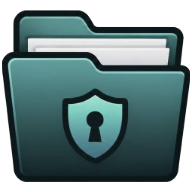
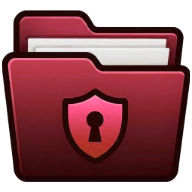
v1.167: closed cases in red (tag, folder, border); an X across a case closed with an arrest
- The closed status colour and the closed folder icon are red instead of green
- A closed case's box in the case list has a red border all round and a red lock in an open Mission
- A closed case with an arrest has an X across its box (case list and open Mission card)

Claude-Session: https://claude.ai/code/session_013Lh6qyaaezAfrBk9K1D6N1

diff --git a/tests/e2e/v1167.js b/tests/e2e/v1167.js
@@ -1,0 +1,47 @@
+// v1.167: a closed case is red, not green: the Closed tag, the closed folder icon and the border all
+// round its box in the case list, most of all inside a Mission that is still open. A case closed
+// with an arrest has an X across its box. All data is made up (Doe / Roe / Poe, Example City).
+const boot = require('./boot.js');
+const ok = (c, m) => console.log(c ? 'PASS' : 'FAIL', m);
+const SP = process.env.SP + '/v1167';
+const red = (rgb) => { const m = String(rgb).match(/\d+(\.\d+)?/g); if (!m) return false; const [r, g, b] = m.map(Number); return r > 140 && r > g * 1.6 && r > b * 1.6; };
+
+(async () => {
+  require('fs').mkdirSync(SP, { recursive: true });
+  const { b, p, errs, ids } = await boot(1400, 1000);
+  await p.evaluate(async (ids) => {
+    const op = Vault.listOperations()[0];
+    for (const i of [ids.c, ids.c2]) await Vault.assignCase(i, op.id).catch(() => {});
+    const c = await Vault.getCase(ids.c); c.status = 'Closed'; c.arrest = true; await Vault.saveCase(c);
+    const d = await Vault.createCase({ number: 'EX-940', subject: 'Ann Roe' }); await Vault.assignCase(d.id, op.id);
+    const dd = await Vault.getCase(d.id); dd.status = 'Closed'; await Vault.saveCase(dd);
+  }, ids);
+  await p.evaluate(() => { location.hash = '#/x'; location.hash = '#/'; }); await p.waitForTimeout(800);
+  await p.evaluate(() => document.querySelectorAll('#case-list details').forEach((d) => { d.open = true; }));
+  const look = await p.evaluate((ids) => {
+    const box = (i) => document.querySelector(`#case-list .mission-children a.case-item[href="#/case/${CVRoute.enc(i)}"], #case-list a.case-item.case-dim[href="#/case/${CVRoute.enc(i)}"]`);
+    const a = box(ids.c); const plain = [...document.querySelectorAll('#case-list a.case-item.case-dim')].find((x) => /EX-940/.test(x.textContent));
+    const cs = (e) => getComputedStyle(e);
+    return {
+      arrest: a && { cls: a.className, img: cs(a).backgroundImage, left: cs(a).borderLeftColor, shadow: cs(a).boxShadow, pill: cs(a.querySelector('.status-closed') || a).color, title: a.title },
+      plain: plain && { cls: plain.className, img: cs(plain).backgroundImage, left: cs(plain).borderLeftColor, shadow: cs(plain).boxShadow, lock: cs(plain.querySelector('.case-lock')).color },
+      closedIcon: (document.querySelector('#case-list .closed-icon image') || {}).getAttribute?.('href') || '',
+    };
+  }, ids);
+  ok(look.plain && /case-dim/.test(look.plain.cls) && red(look.plain.left) && /rgb\(\s*1[0-9]{2}, 38, 46\)|rgb\(163, 38, 46\)/.test(look.plain.shadow) && red(look.plain.lock), `closed in an open Mission: red border all round and a red lock ${JSON.stringify(look.plain)}`);
+  ok(look.plain && look.plain.img === 'none', 'no X without an arrest');
+  ok(look.arrest && /closed-arrest/.test(look.arrest.cls) && (look.arrest.img.match(/linear-gradient/g) || []).length === 2 && /X/.test(look.arrest.title), `closed with an arrest: an X across the box ${JSON.stringify(look.arrest && { cls: look.arrest.cls, title: look.arrest.title })}`);
+  ok(look.arrest && red(look.arrest.pill), `the Closed tag is red: ${look.arrest && look.arrest.pill}`);
+  ok(/folder-closed-shield/.test(look.closedIcon), `the closed folder icon: ${look.closedIcon}`);
+  const px = await p.evaluate(async () => {
+    const img = new Image(); img.src = 'icons/color/folder-closed-shield.png'; await img.decode();
+    const c = document.createElement('canvas'); c.width = img.width; c.height = img.height; const x = c.getContext('2d'); x.drawImage(img, 0, 0);
+    const d = x.getImageData(0, 0, c.width, c.height).data; let r = 0, g = 0, bl = 0;
+    for (let i = 0; i < d.length; i += 4) if (d[i + 3] > 200) { r += d[i]; g += d[i + 1]; bl += d[i + 2]; }
+    return [r, g, bl];
+  });
+  ok(px[0] > px[1] * 1.5 && px[0] > px[2] * 1.5, `the closed folder is red, not green: ${px}`);
+  await p.locator('#sidebar').screenshot({ path: `${SP}/sidebar.png` }).catch(() => {});
+  console.log('errors', JSON.stringify(errs));
+  await b.close();
+})();

diff --git a/js/app.js b/js/app.js
@@ -833,13 +833,13 @@
       opened ? `Opened ${opened.long} (${opened.future ? `${opened.ageLong.toLowerCase()}: a date in the future, check it` : opened.days ? `${opened.days} day${opened.days === 1 ? '' : 's'} ago` : 'today'})` : null,
       sol ? `Statute of limitations ${sol === 'expired' ? 'expired' : 'expires'} ${fmtDate(c.sol.expires)}` : null,
       due && !sol ? `${due.cls === 'overdue' || due.cls === 'soon' ? 'Alarm: ' : 'Next deadline: '}${c.nextDeadline.title || 'Deadline'}, ${fmtDate(c.nextDeadline.date)}${c.nextDeadline.time ? ` ${c.nextDeadline.time}` : ''} (${due.text})` : null,
-      c.arrested ? 'Arrest made: this case has Arrest details' : null,
+      c.arrested ? (c.status === 'Closed' ? 'Closed with an arrest (the X)' : 'Arrest made: this case has Arrest details') : null,
     ].filter(Boolean).join('\n');
     const li = h('li', {},
       h('a', {
         href: `#/case/${CVRoute.enc(c.id)}`,
         // v1.60: a case with a reminder (a deadline overdue or within a week) has a thin red border.
-        class: `case-item st-${String(c.status).toLowerCase()} ${c.id === state.caseId ? 'active' : ''}${due ? ` has-reminder reminder-${due.cls}` : ''}${c.arrested ? ' has-arrest' : ''}${dim ? ' case-dim' : ''}`,
+        class: `case-item st-${String(c.status).toLowerCase()} ${c.id === state.caseId ? 'active' : ''}${due ? ` has-reminder reminder-${due.cls}` : ''}${c.arrested ? ' has-arrest' : ''}${c.arrested && c.status === 'Closed' ? ' closed-arrest' : ''}${dim ? ' case-dim' : ''}`, // v1.167: closed with an arrest: an X across the box
         'aria-current': c.id === state.caseId ? 'page' : null,
         title: tip,
       },
@@ -2377,7 +2377,7 @@
   function overviewCard(c, withOp = false) {
     const to = (tab, sub) => `#/case/${CVRoute.enc(c.id)}/${tab}${sub ? `/${sub}` : ''}`;
     const op = withOp ? opOf(c) : null;
-    return h('div', { class: 'op-case-card' },
+    return h('div', { class: `op-case-card${c.arrested && c.status === 'Closed' ? ' closed-arrest' : ''}`, title: c.arrested && c.status === 'Closed' ? 'Closed with an arrest' : null },
       h('a', { class: 'op-case-top', href: to('details') }, h('span', { class: 'op-case-id' }, h('span', { class: 'op-case-num' }, c.number || 'No case number yet'),
         h('span', { class: 'op-case-subject muted' }, [subj(c) || 'No subject yet', op ? opLabel(op) : ''].filter(Boolean).join(' · '))), statusPill(c.status)),
       // v1.135: when a closed or archived case was closed (and archived).

diff --git a/css/theme.css b/css/theme.css
@@ -54,7 +54,7 @@
   /* Status: one colour per meaning, everywhere. */
   --st-open: #2f6db5; --st-open-soft: rgba(47, 109, 181, .12);
   --st-pending: #946200; --st-pending-soft: rgba(148, 98, 0, .13);
-  --st-closed: #2e7d4f; --st-closed-soft: rgba(46, 125, 79, .12);
+  --st-closed: #a3262e; --st-closed-soft: rgba(163, 38, 46, .1); /* v1.167: closed is red (was green) */
   --st-archived: #6b665c; --st-archived-soft: rgba(107, 102, 92, .14);
   /* Sections: Missions navy-blue, General Files muted plum. */
   --sec-mission: #2f6db5;
@@ -73,7 +73,7 @@
     --shadow: 0 1px 2px rgba(0, 0, 0, .3); --shadow-lg: 0 1rem 3rem rgba(0, 0, 0, .55); --topbar-bg: rgba(23, 29, 39, .92);
     --box-edge: #34404f; --box-line: #435064;
     --st-open: #8fb3e0; --st-open-soft: rgba(143, 179, 224, .15); --st-pending: #e2b552; --st-pending-soft: rgba(226, 181, 82, .15);
-    --st-closed: #6cc08f; --st-closed-soft: rgba(108, 192, 143, .14); --st-archived: #b1aa9d; --st-archived-soft: rgba(177, 170, 157, .14);
+    --st-closed: #ef8a86; --st-closed-soft: rgba(239, 138, 134, .15); --st-archived: #b1aa9d; --st-archived-soft: rgba(177, 170, 157, .14);
     --sec-mission: #8fb3e0; --sec-general: #b3a3d6; --hero-1: #16233a; --hero-2: #213a5c;
     color-scheme: dark;
   }
@@ -87,7 +87,7 @@
   --shadow: 0 1px 2px rgba(0, 0, 0, .3); --shadow-lg: 0 1rem 3rem rgba(0, 0, 0, .55); --topbar-bg: rgba(23, 29, 39, .92);
   --box-edge: #34404f; --box-line: #435064;
   --st-open: #8fb3e0; --st-open-soft: rgba(143, 179, 224, .15); --st-pending: #e2b552; --st-pending-soft: rgba(226, 181, 82, .15);
-  --st-closed: #6cc08f; --st-closed-soft: rgba(108, 192, 143, .14); --st-archived: #b1aa9d; --st-archived-soft: rgba(177, 170, 157, .14);
+  --st-closed: #ef8a86; --st-closed-soft: rgba(239, 138, 134, .15); --st-archived: #b1aa9d; --st-archived-soft: rgba(177, 170, 157, .14);
   --sec-mission: #8fb3e0; --sec-general: #b3a3d6; --hero-1: #16233a; --hero-2: #213a5c;
   color-scheme: dark;
 }

diff --git a/css/app.css b/css/app.css
@@ -4627,3 +4627,19 @@ body:not(.sidebar-collapsed) .sidebar-head { padding-left: .3rem; padding-right:
 /* The locker tables use the whole width of the window, so a row stays on one line on a wide screen. */
 #main > section.locker-page:has(.locker-rows) { max-width: none; }
 .locker-rows td.col-k-phone, .locker-rows td.col-k-dob, .locker-rows td.col-k-age { white-space: nowrap !important; } /* a phone number or a date never breaks */
+
+/* v1.167: a closed case is red, not green: the Closed tag, the folder and the box's border (all
+   round, not only on the left), most of all for a case closed while its Mission goes on. A case
+   closed with an arrest has an X across its box. */
+#sidebar .case-item.st-closed { border-left-color: var(--st-closed); box-shadow: inset 0 0 0 1px var(--st-closed); }
+#sidebar .case-item.st-closed.has-arrest { box-shadow: inset -4px 0 0 var(--arrest), inset 0 0 0 1px var(--st-closed); }
+#sidebar .case-item.case-dim { border-left-width: 4px; }
+#sidebar .case-item .case-lock { color: var(--st-closed); }
+#sidebar .case-item .case-lock svg.ci:not(.ci-only) > image { display: none; } /* the lock as a red outline */
+#sidebar .case-item .case-lock svg.ci:not(.ci-only) > :not(image) { display: inline; }
+#sidebar .case-item.closed-arrest.has-arrest, #sidebar .case-item.closed-arrest.has-arrest:not(.has-reminder), .op-case-card.closed-arrest {
+  --x-line: color-mix(in srgb, var(--st-closed) 55%, transparent);
+  background-image:
+    linear-gradient(to top right, transparent calc(50% - 1px), var(--x-line) calc(50% - 1px), var(--x-line) calc(50% + 1px), transparent calc(50% + 1px)),
+    linear-gradient(to bottom right, transparent calc(50% - 1px), var(--x-line) calc(50% - 1px), var(--x-line) calc(50% + 1px), transparent calc(50% + 1px));
+}

diff --git a/tests/e2e/v1124.js b/tests/e2e/v1124.js
@@ -18,10 +18,10 @@ const SP = process.env.SP + '/v1124';
   const light = await look('light');
   ok(light.font === 'JetBrains Mono' && light.loaded, `the bundled font is in use: ${light.font}`);
   ok(light.accent === '#1f3a5f' && light.bg === '#f5f4f0' && light.hero, `light: navy accent on warm off-white: ${JSON.stringify(light)}`);
-  ok(light.open === '#2f6db5' && light.closed === '#2e7d4f' && light.archived === '#6b665c', 'light: Open blue, Closed green, Archived warm grey');
+  ok(light.open === '#2f6db5' && light.closed === '#a3262e' && light.archived === '#6b665c', 'light: Open blue, Closed red (v1.167), Archived warm grey');
   await p.screenshot({ path: `${SP}/home-light.png` });
   const dark = await look('dark');
-  ok(dark.accent === '#8fb3e0' && dark.bg === '#11161e' && dark.open === '#8fb3e0' && dark.closed === '#6cc08f', `dark: the same meanings, lighter tones: ${JSON.stringify(dark)}`);
+  ok(dark.accent === '#8fb3e0' && dark.bg === '#11161e' && dark.open === '#8fb3e0' && dark.closed === '#ef8a86', `dark: the same meanings, lighter tones: ${JSON.stringify(dark)}`);
   await p.screenshot({ path: `${SP}/home-dark.png` });
   console.log('errors', errs); await b.close();
 })().catch((e) => { console.log('FAIL', e.message); process.exit(1); });

diff --git a/sw.js b/sw.js
@@ -8,7 +8,7 @@
 
 // VERSION is bumped with each release; BUILD is replaced with the commit SHA by the GitHub Pages
 // workflow. Either change gives a new cache, so the installed app picks up the update.
-const VERSION = '1.166.0';
+const VERSION = '1.167.0';
 const BUILD = 'dev';
 const CACHE = `casevault-${VERSION}-${BUILD}`;
 

diff --git a/js/vault.js b/js/vault.js
@@ -23,7 +23,7 @@
 'use strict';
 
 const Vault = (() => {
-  const APP_VERSION = '1.166.0';
+  const APP_VERSION = '1.167.0';
   const SCHEMA = 1;
   const OPERATIONS_VERSION = 1; // v1.46: Operations are records; cases link to one by operationId
   const DATA_DIR = 'CaseVault-Data';

diff --git a/docs/USING-CASEVAULT.md b/docs/USING-CASEVAULT.md
@@ -213,6 +213,12 @@ It saves on its own as you type (and with the **Save** button) to `arrest.json` 
 
 The **Overview** screen (click **CaseVault** at the top left) shows counts by status, the next deadline for each active case, and recently updated cases.
 
+### What's new in v1.167
+
+- **Closed is red, not green.** A closed case is now marked in red everywhere: the **Closed** tag, the closed folder icon (CLOSED in the case list, Closed Files on the home page, the Year Summary) and the case colour in the themes. This is most visible for a case closed while its Mission is still open:
+  - In the case list, its box has a red border all the way round (thicker on the left) and a red lock before the case number
+- **An X for a case closed with an arrest.** When a closed case has Arrest details, its box in the case list has a red X across it, and so does its card on the home page's open Mission. The text stays readable through the X, and pointing at the box says *Closed with an arrest*
+
 ### What's new in v1.166
 
 - **Secure Locker: each row on one line.** The Password Manager and Covert tables show each row on one line, with nothing cut off and no sideways scroll bar:
@@ -235,13 +241,6 @@ The **Overview** screen (click **CaseVault** at the top left) shows counts by st
 - **AI: Keep the Model Loaded.** In the Consistency Checker's engine settings you can choose how long the AI model stays in memory after a task: 2, 10 (default) or 30 minutes, or *Unload When Done* to free memory straight away
 - **AI: less waiting.** The Consistency Checker's AI review now skips statements the rules have already settled with high confidence, and statements that match the source word for word. The results line shows how many were skipped
 - **Faster sidebar:** switching tabs or cases no longer redraws the whole case list when nothing in it changed
-
-### What's new in v1.164
-
-- **Fix (drop-down lists in Firefox):** Firefox now uses its own drop-down lists. It could open its built-in list on top of CaseVault's, so the two fought over the click (Edit Alias and other forms). Firefox's list is square already; Chrome and Edge keep CaseVault's
-- **Fix (drop-down lists):** moving through a long list (with the arrow keys or by typing a letter) scrolls only the list, never the form behind it, and picking a value no longer scrolls the form either
-- **Training: Arrange.** In Other Files → Training (Cards), **Arrange** lets you put the certificates in the order you want, to keep similar ones together: drag a card onto another to take its place, or use the arrows under each card (it shows its place, *2 of 6*). **Done Arranging** finishes. The order is kept on the SSD (in the Training folder) and used by the Cards and List views; a certificate added later goes last. The Training Record PDF still lists them by date
-- **Updater 1.4: a quieter look.** Neutral greys with a charcoal main button, a plain light header, a thin progress bar and thin borders. The spinning vault door is gone: while it works the header just says *Working…*
 
 ### Earlier versions
 

diff --git a/previous-versions/WHATS-NEW.md b/previous-versions/WHATS-NEW.md
@@ -4,6 +4,13 @@ The day-to-day notes for each earlier version, newest first (moved here from [do
 
 Some notes describe things later versions changed or removed (the Quick Links bar, the sidebar's Closed and Archived area, "Vault" before it became Settings).
 
+## What's new in v1.164
+
+- **Fix (drop-down lists in Firefox):** Firefox now uses its own drop-down lists. It could open its built-in list on top of CaseVault's, so the two fought over the click (Edit Alias and other forms). Firefox's list is square already; Chrome and Edge keep CaseVault's
+- **Fix (drop-down lists):** moving through a long list (with the arrow keys or by typing a letter) scrolls only the list, never the form behind it, and picking a value no longer scrolls the form either
+- **Training: Arrange.** In Other Files → Training (Cards), **Arrange** lets you put the certificates in the order you want, to keep similar ones together: drag a card onto another to take its place, or use the arrows under each card (it shows its place, *2 of 6*). **Done Arranging** finishes. The order is kept on the SSD (in the Training folder) and used by the Cards and List views; a certificate added later goes last. The Training Record PDF still lists them by date
+- **Updater 1.4: a quieter look.** Neutral greys with a charcoal main button, a plain light header, a thin progress bar and thin borders. The spinning vault door is gone: while it works the header just says *Working…*
+
 ## What's new in v1.163
 
 - **Document Anonymizer: live, colour-coded review.** What's found shows as you type: red critical details (Social Security, card and bank numbers, dates of birth, ID numbers), orange high (phones, emails, addresses, plates, VINs, case numbers, known names), yellow medium (guessed names). Click a highlight to keep that detail (every mention of it), click again to replace it; red ones and known names are always replaced. The result updates as you go

diff --git a/README.md b/README.md
@@ -15,10 +15,10 @@ An offline, browser-based case file manager that stores everything on your own e
 
 The app detects the browser and picks the mode by itself. The data format on the SSD is identical in both.
 
-## What's New in v1.166
+## What's New in v1.167
 
-- **Secure Locker:** each row on one line, nothing cut off and no sideways scroll bar
-- **Fix:** a new locker said "Locks after undefined minutes"
+- **Closed is red:** the Closed tag, the closed folder and a red border round a closed case's box
+- **Arrest:** a case closed with an arrest has an X across its box
 
 ## What CaseVault Does
 

diff --git a/previous-versions/README.md b/previous-versions/README.md
@@ -4,6 +4,11 @@ What each earlier version of CaseVault added or changed, newest first. The main 
 
 The day-to-day "What's new" notes are in [WHATS-NEW.md](WHATS-NEW.md) (the latest few also in [docs/USING-CASEVAULT.md](../docs/USING-CASEVAULT.md)).
 
+## Features (v1.166)
+
+- **Secure Locker:** each row on one line, nothing cut off and no sideways scroll bar
+- **Fix:** a new locker said "Locks after undefined minutes"
+
 ## Features (v1.165)
 
 - **Fix:** every folder shows its count, including 1 and 0, on the home page and sidebar
